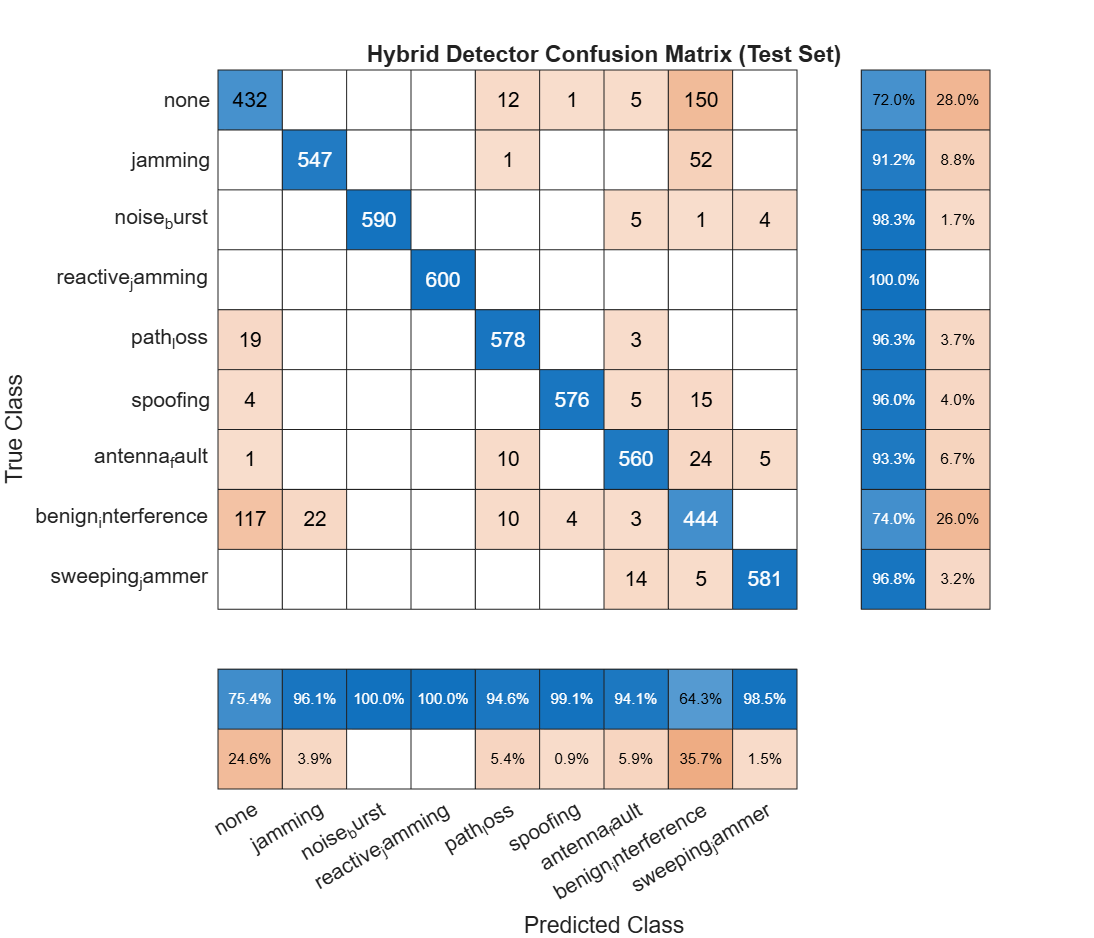
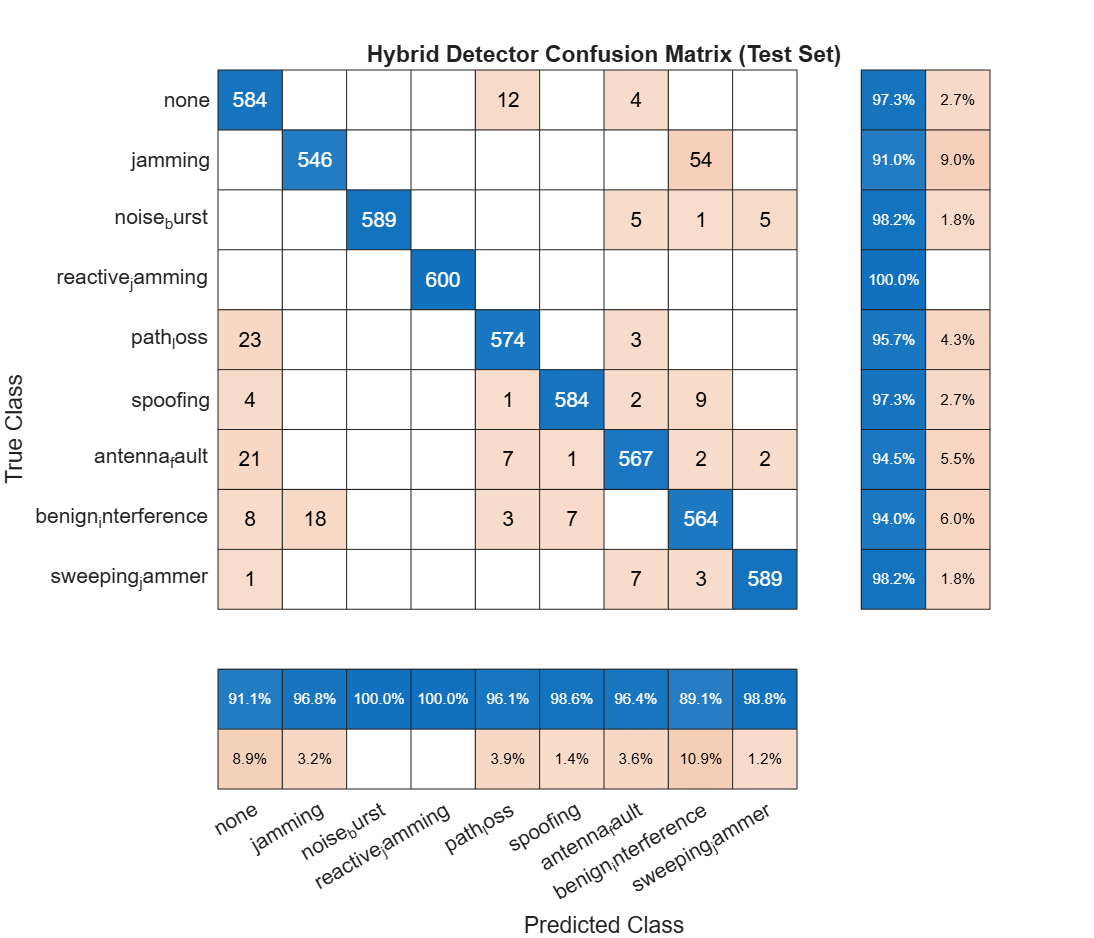
D43: interference-over-thermal feature; detector v2 96.2% accuracy, unknown-threat AUROC 0.90 (Mahalanobis)

diff --git a/demo_gui.m b/demo_gui.m
@@ -861,10 +861,10 @@ function runOneRun(fig, threat, ebno, sevLevel, tSeq)
     out = sim(env.modelName);
     updateTimer(fig, tSeq); checkAbort(fig);
 
-    [iq_frames, ber_f, rssi_f, plr_f, nf, sinr_f, ec_f] = extract_closed_loop_frames(out, p, env.delay_bits);
+    [iq_frames, ber_f, rssi_f, plr_f, nf, sinr_f, ec_f, iot_f] = extract_closed_loop_frames(out, p, env.delay_bits);
     i_last = find(~isnan(ber_f), 1, 'last'); if isempty(i_last), i_last = nf; end
     raw_feats = link_features(struct('sinr', sinr_f, 'ber', ber_f, 'rssi', rssi_f, 'plr', plr_f, ...
-        'env_corr', ec_f), i_last, env.temporal_window, p.frame_duration);
+        'env_corr', ec_f, 'iot', iot_f), i_last, env.temporal_window, p.frame_duration);
     burst_ratio = raw_feats(7);
     iq_before = iq_frames{i_last};
     ber_before_mean = mean(ber_f, 'omitnan');
@@ -1667,7 +1667,7 @@ function runEpisode(btn, ~)
             if onset, F = Pt{cfg}; else, F = Pn{cfg}; end
             j = randi(rs{i}, numel(F.ber));
             fr = struct('iq', double(F.iq{j}), 'ber', F.ber(j), 'rssi', F.rssi(j), 'plr', F.plr(j), ...
-                'sinr', F.sinr(j), 'env_corr', F.env_corr(j));
+                'sinr', F.sinr(j), 'env_corr', F.env_corr(j), 'iot', F.iot(j));
             [Ep{i}, info] = episode_cycle(Ep{i}, k, fr, ctx{i});
             T.ber(i, k) = fr.ber; T.det(i, k) = cls_idx(info.cls); T.ok(i, k) = T.det(i, k) == truthIdx(k);
             T.conf(i, k) = info.conf; T.prop(i, k) = info.prop; T.cfg(i, k) = info.cfg; T.sw(i, k) = info.switched;
@@ -1763,11 +1763,11 @@ function P = epBuildPool(fig, p, threat, ebno)
         evalc('build_threat_model');
         snr_dB = ebno + 10*log10(p2.bits_per_symbol) - 10*log10(p2.sps);
         set_param([env.modelName '/AWGN'], 'SNR', num2str(snr_dB + g_db), 'SignalPower', num2str(1/p2.sps));
-        F = struct('iq', {{}}, 'ber', [], 'rssi', [], 'plr', [], 'sinr', [], 'env_corr', []);
+        F = struct('iq', {{}}, 'ber', [], 'rssi', [], 'plr', [], 'sinr', [], 'env_corr', [], 'iot', []);
         for r = 1:2
             link_seed(env.modelName, randi(2^31 - 1000));
             out = sim(env.modelName);
-            [iq_f, ber_f, rssi_f, plr_f, ~, sinr_f, ec_f] = extract_closed_loop_frames(out, p2, env.delay_bits);
+            [iq_f, ber_f, rssi_f, plr_f, ~, sinr_f, ec_f, iot_f] = extract_closed_loop_frames(out, p2, env.delay_bits);
             v = find(~isnan(ber_f));
             F.iq   = [F.iq, reshape(cellfun(@single, iq_f(v), 'UniformOutput', false), 1, [])];
             F.ber  = [F.ber, ber_f(v)];
@@ -1775,6 +1775,7 @@ function P = epBuildPool(fig, p, threat, ebno)
             F.plr  = [F.plr, plr_f(v)];
             F.sinr = [F.sinr, sinr_f(v)];
             F.env_corr = [F.env_corr, ec_f(v)];
+            F.iot = [F.iot, iot_f(v)];
         end
         P{a} = F;
     end

diff --git a/run_dataset_sweep.m b/run_dataset_sweep.m
@@ -48,7 +48,7 @@ class_names = ['none', {threat_cfg.name}];
 stop_time   = num2str(F_SUB * p0.frame_duration);
 
 D = struct('iq', {{}}, 'label', [], 'level', [], 'snr', [], 'ber', [], 'rssi', [], 'plr', [], ...
-    'sinr', [], 'env_corr', [], 'speed', [], 'run', [], 'fold', []);
+    'sinr', [], 'env_corr', [], 'iot', [], 'speed', [], 'run', [], 'fold', []);
 run_id = 0;
 t0 = tic;
 fprintf('\n=== A5 dataset: %d threats x %d levels x %d Eb/N0 x %d sub-runs x %d frames (+ none) ===\n', ...
@@ -91,7 +91,7 @@ dataset = struct();
 dataset.iq = D.iq; dataset.label = D.label(:); dataset.level = D.level(:);
 dataset.class_names = class_names; dataset.snr = D.snr(:);
 dataset.ber = D.ber(:); dataset.rssi = D.rssi(:); dataset.plr = D.plr(:);
-dataset.sinr = D.sinr(:); dataset.env_corr = D.env_corr(:);
+dataset.sinr = D.sinr(:); dataset.env_corr = D.env_corr(:); dataset.iot = D.iot(:);
 dataset.speed_kmh = D.speed(:); dataset.run = D.run(:); dataset.fold = D.fold(:);
 dataset.meta = struct('N_SUB', N_SUB, 'F_SUB', F_SUB, 'EbNo_list', EbNo_list, 'delay_bits', delay_bits, ...
     'mode', 'seeded_subruns_D42', 'n_rx', p0.n_rx, 'speed_range_kmh', [p0.speed_kmh_min p0.speed_kmh_max], ...
@@ -122,13 +122,13 @@ link_seed(modelName, randi(2^31 - 1000), fd);
 snr_dB = ebno + 10*log10(p.bits_per_symbol) - 10*log10(p.sps);
 set_param([modelName '/AWGN'], 'SNR', num2str(snr_dB), 'SignalPower', num2str(1/p.sps));
 out = sim(modelName, 'StopTime', stop_time);
-[iqf, ber, rssi, plr, nf, sinr, ec] = extract_closed_loop_frames(out, p, delay_bits);
+[iqf, ber, rssi, plr, nf, sinr, ec, io] = extract_closed_loop_frames(out, p, delay_bits);
 for f = 1:nf
     if isnan(ber(f)), continue; end
     D.iq{end+1} = iqf{f};
     D.label(end+1) = label; D.level(end+1) = level; D.snr(end+1) = ebno;
     D.ber(end+1) = ber(f); D.rssi(end+1) = rssi(f); D.plr(end+1) = plr(f);
-    D.sinr(end+1) = sinr(f); D.env_corr(end+1) = ec(f);
+    D.sinr(end+1) = sinr(f); D.env_corr(end+1) = ec(f); D.iot(end+1) = io(f);
     D.speed(end+1) = v_kmh; D.run(end+1) = run_id; D.fold(end+1) = fold;
 end
 end

diff --git a/run_closed_loop_episodes.m b/run_closed_loop_episodes.m
@@ -70,11 +70,11 @@ for t = 1:nT
         for s = 1:nS
             snr_dB = EBNO_LIST(s) + 10*log10(p2.bits_per_symbol) - 10*log10(p2.sps);
             set_param([modelName '/AWGN'], 'SNR', num2str(snr_dB + g_db), 'SignalPower', num2str(1/p2.sps));
-            F = struct('iq', {{}}, 'ber', [], 'rssi', [], 'plr', [], 'sinr', [], 'env_corr', []);
+            F = struct('iq', {{}}, 'ber', [], 'rssi', [], 'plr', [], 'sinr', [], 'env_corr', [], 'iot', []);
             for r = 1:N_POOL_RUNS
                 link_seed(modelName, randi(2^31 - 1000));       % independent pool runs (D42)
                 out = sim(modelName);
-                [iq_f, ber_f, rssi_f, plr_f, ~, sinr_f, ec_f] = extract_closed_loop_frames(out, p2, delay_bits);
+                [iq_f, ber_f, rssi_f, plr_f, ~, sinr_f, ec_f, iot_f] = extract_closed_loop_frames(out, p2, delay_bits);
                 b = ber_f(:)'; rs = rssi_f(:)'; q = plr_f(:)'; sn = sinr_f(:)'; ec = ec_f(:)';
                 v = find(~isnan(b));
                 F.iq   = [F.iq, reshape(cellfun(@single, iq_f(v), 'UniformOutput', false), 1, [])];
@@ -83,6 +83,7 @@ for t = 1:nT
                 F.plr  = [F.plr, q(v)];
                 F.sinr = [F.sinr, sn(v)];
                 F.env_corr = [F.env_corr, ec(v)];
+                io = iot_f(:)'; F.iot = [F.iot, io(v)];
             end
             pools{t, a, s} = F;
         end
@@ -167,7 +168,7 @@ for k = 1:N
     F = pools{src_t, cfg, s};
     j = randi(numel(F.ber));
     fr = struct('iq', double(F.iq{j}), 'ber', F.ber(j), 'rssi', F.rssi(j), 'plr', F.plr(j), ...
-        'sinr', F.sinr(j), 'env_corr', F.env_corr(j));
+        'sinr', F.sinr(j), 'env_corr', F.env_corr(j), 'iot', F.iot(j));
     [Ep, info] = episode_cycle(Ep, k, fr, ctx);
     cfg = Ep.cfg;
     if k > N_PRE && isnan(R.T_detect) && strcmp(info.cls, threats{t}), R.T_detect = k - N_PRE; end

diff --git a/extract_closed_loop_frames.m b/extract_closed_loop_frames.m
@@ -1,4 +1,4 @@
-function [iq_frames, ber, rssi, plr, nf, sinr, env_corr] = extract_closed_loop_frames(out, p, delay_bits)
+function [iq_frames, ber, rssi, plr, nf, sinr, env_corr, iot] = extract_closed_loop_frames(out, p, delay_bits)
 %EXTRACT_CLOSED_LOOP_FRAMES Single source of truth for pulling all frames
 % (not just the first) out of a single sim() call's output, with per-frame
 % BER/RSSI/PLR -- the building block for real sliding-window temporal
@@ -32,6 +32,8 @@ function [iq_frames, ber, rssi, plr, nf, sinr, env_corr] = extract_closed_loop_f
 %                  envelope (residual after a 32-sample block LS fit): ~0 for
 %                  interference independent of our transmission, > 0 when the
 %                  interference is triggered by it (reactive jamming, D42)
+%   iot(f)       - interference over thermal [dB] (iot_db.m); the thermal floor is
+%                  the AWGN setting of the run, read from the model (D43)
 %
 % With p.fec (fec_interleave, D39) BER and PLR are those of the decoded
 % information bits (local function fec_frames).
@@ -50,6 +52,7 @@ if isvector(iq),  iq=iq(:);   end
 nf  = size(iq,2);
 bpf = p.frame_length;
 [sinr, env_corr] = residual_metrics(txi, iq, nf);
+iot = iot_of(out, p, iq, sinr, nf);
 tx_all = txb(:); rx_all = rxb(:);
 Lmax = min(numel(tx_all),numel(rx_all)) - delay_bits;
 tx_al = tx_all(1:Lmax);
@@ -145,5 +148,18 @@ for f = 1:min(nf, size(tx, 2))
     a = abs(E(:)).^2; b = abs(X(:)).^2;
     c = corrcoef(a, b);
     ec(f) = c(1, 2);
+end
+end
+
+function iot = iot_of(out, p, iq, sinr, nf)
+iot = nan(1, nf);
+try
+    mdl = out.SimulationMetadata.ModelInfo.ModelName;
+    snr_s = str2double(get_param([mdl '/AWGN'], 'SNR'));
+catch
+    return;
+end
+for f = 1:nf
+    iot(f) = iot_db(10*log10(mean(abs(iq(:, f)).^2) + eps), sinr(f), snr_s, p.sps);
 end
 end

diff --git a/extract_spectrograms.m b/extract_spectrograms.m
@@ -26,12 +26,14 @@ for i = 1:N
 end
 
 fprintf('Computing link features (window %d, per sub-run)...\n', tw);
-feats = zeros(N, 8);
+feats = zeros(N, 9);
+snr_s = ds.snr(:) + 10*log10(p.bits_per_symbol) - 10*log10(p.sps);     % AWGN setting of each frame
+iot = iot_db(ds.rssi(:), ds.sinr(:), snr_s, p.sps);
 runs = unique(ds.run, 'stable');
 for r = 1:numel(runs)
     idx = find(ds.run == runs(r));
     M = struct('sinr', ds.sinr(idx), 'ber', ds.ber(idx), 'rssi', ds.rssi(idx), ...
-        'plr', ds.plr(idx), 'env_corr', ds.env_corr(idx));
+        'plr', ds.plr(idx), 'env_corr', ds.env_corr(idx), 'iot', iot(idx));
     for k = 1:numel(idx)
         [feats(idx(k), :), feat_names] = link_features(M, k, tw, p.frame_duration);
     end
@@ -51,11 +53,15 @@ spec.meta = ds.meta;
 spec.meta.temporal_window = tw;
 save('data/spectrograms.mat', 'spec', '-v7.3');
 
-fprintf('\nSaved data/spectrograms.mat: X [128 128 1 %d], %d classes, feats [%d x 8] (%s)\n', ...
+fprintf('\nSaved data/spectrograms.mat: X [128 128 1 %d], %d classes, feats [%d x 9] (%s)\n', ...
     N, numel(ds.class_names), N, strjoin(feat_names, ', '));
 fprintf('Envelope correlation per class (mean): ');
 for c = 1:numel(ds.class_names)
     fprintf('%s %.3f  ', ds.class_names{c}, mean(feats(ds.label == c, 8)));
+end
+fprintf('\nInterference over thermal per class (mean dB): ');
+for c = 1:numel(ds.class_names)
+    fprintf('%s %.2f  ', ds.class_names{c}, mean(feats(ds.label == c, 9)));
 end
 fprintf('\n');
 clear X spec ds L   % large arrays; main.m runs the stages in one workspace

diff --git a/link_features.m b/link_features.m
@@ -2,13 +2,13 @@ function [raw, names] = link_features(M, k, tw, frame_dur)
 %LINK_FEATURES  Scalar detector features of frame k, one definition for training,
 %   evaluation, the closed loop and the GUI (D42).
 %   M          per-frame history of one run or episode, vector fields:
-%              sinr, ber, rssi, plr, env_corr (as returned by extract_closed_loop_frames)
+%              sinr, ber, rssi, plr, env_corr, iot (as returned by extract_closed_loop_frames)
 %   k          current frame index in M
 %   tw         temporal window [frames], causal, clipped to the start of M
 %   frame_dur  frame duration [s]
-%   raw        1 x 8: [sinr, ber, rssi, plr, var_rssi, dber_dt, burst_ratio, env_corr]
+%   raw        1 x 9: [sinr, ber, rssi, plr, var_rssi, dber_dt, burst_ratio, env_corr, iot]
 %              missing values (e.g. BER of an incomplete frame) are set to 0
-names = {'sinr', 'ber', 'rssi', 'plr', 'var_rssi', 'dber_dt', 'burst_ratio', 'env_corr'};
+names = {'sinr', 'ber', 'rssi', 'plr', 'var_rssi', 'dber_dt', 'burst_ratio', 'env_corr', 'iot'};
 w0 = max(1, k - tw + 1);
 var_rssi = var(M.rssi(w0:k), 0);
 burst    = mean(M.plr(w0:k), 'omitnan');
@@ -17,6 +17,6 @@ if k > 1 && ~isnan(M.ber(k)) && ~isnan(M.ber(k-1))
 else
     dber = 0;
 end
-raw = [M.sinr(k), M.ber(k), M.rssi(k), M.plr(k), var_rssi, dber, burst, M.env_corr(k)];
+raw = [M.sinr(k), M.ber(k), M.rssi(k), M.plr(k), var_rssi, dber, burst, M.env_corr(k), M.iot(k)];
 raw(~isfinite(raw)) = 0;
 end

diff --git a/main.m b/main.m
@@ -118,11 +118,11 @@ RUN.validate_A                  = false;   % A1-A3: build+validate AWGN & Rician
 RUN.check_A4                    = false;   % A4  : build threat model + sanity BER (fast)
 RUN.validate_phy                = false;    % A4v : link vs theory, MRC/MMSE, seeds; stops main on FAIL (D41)
 RUN.build_dataset               = false;    % A5  : seeded sub-run dataset (~30min, D42)
-RUN.extract_spectrograms        = false;    % A6  : spectrograms + 8 link features (~5min, D42)
+RUN.extract_spectrograms        = true;    % A6  : spectrograms + 9 link features (~5min, D42-D43)
 
 
 % ---- Phase B: detection (CNN baseline) ----
-RUN.prepare_data                = false;    % B1  : split by sub-run 60/20/20 (~1min, D42)
+RUN.prepare_data                = true;    % B1  : split by sub-run 60/20/20 (~1min, D42)
 RUN.train_detector              = true;    % B2  : train CNN+scalar hybrid (~10min)
 RUN.eval_detector               = true;    % B3  : test eval + confusion/accuracy-vs-SNR + bootstrap CIs (~2min, D35)
 RUN.eval_unseen_snr             = false;   % B4  : detector at Eb/N0 never seen in training, 1,3,5,7,9 dB (~25min, D34)

diff --git a/episode_cycle.m b/episode_cycle.m
@@ -5,7 +5,7 @@ function [E, info] = episode_cycle(E, k, fr, ctx)
 %
 %   E    episode state; pass [] on the first cycle
 %   k    cycle index (1-based)
-%   fr   received frame: fields iq, ber, rssi, plr, sinr, env_corr
+%   fr   received frame: fields iq, ber, rssi, plr, sinr, env_corr, iot
 %   ctx  fields: ebno, policy ('dqn' | 'rule'), dwell, hold, net, classes,
 %        feat_mean, feat_std, fs, agent, actions, na, tw (temporal window),
 %        frame_dur
@@ -21,9 +21,9 @@ function [E, info] = episode_cycle(E, k, fr, ctx)
 
 if isempty(E)
     E = struct('cfg', ctx.na, 'last_switch', -inf, 'cand', 0, 'cand_n', 0, ...
-        'ber', [], 'rssi', [], 'plr', [], 'sinr', [], 'env_corr', []);
+        'ber', [], 'rssi', [], 'plr', [], 'sinr', [], 'env_corr', [], 'iot', []);
 end
-E.ber(k) = fr.ber; E.rssi(k) = fr.rssi; E.plr(k) = fr.plr; E.sinr(k) = fr.sinr; E.env_corr(k) = fr.env_corr;
+E.ber(k) = fr.ber; E.rssi(k) = fr.rssi; E.plr(k) = fr.plr; E.sinr(k) = fr.sinr; E.env_corr(k) = fr.env_corr; E.iot(k) = fr.iot;
 
 %% Detection
 raw = link_features(E, k, ctx.tw, ctx.frame_dur);

diff --git a/train_detector.m b/train_detector.m
@@ -1,4 +1,4 @@
-%% B2 - TRAIN HYBRID DETECTOR: CNN (spectrogram) + FC (8 link features) -> softmax (D42)
+%% B2 - TRAIN HYBRID DETECTOR: CNN (spectrogram) + FC (9 link features) -> softmax (D42)
 % Training in train_hybrid_net.m (shared with eval_ood_detection.m). After
 % training, the feature-space unknown-threat models (Mahalanobis on the embedding,
 % isolation forest on the link features) are fitted on the training split.
@@ -33,7 +33,7 @@ xlabel('Epoch'); ylabel('Cross-entropy'); title('Training loss');
 subplot(1, 2, 2); plot(100*info.valAcc, 'r-', 'LineWidth', 1.5); hold on; grid on;
 xline(info.bestEpoch, '--k', sprintf('best (ep %d)', info.bestEpoch));
 xlabel('Epoch'); ylabel('Accuracy (%)'); title(sprintf('Validation accuracy (best %.1f%%)', 100*info.bestValAcc));
-sgtitle('B2: Hybrid detector (8 link features, SpecAugment, cosine LR)');
+sgtitle('B2: Hybrid detector (9 link features, SpecAugment, cosine LR)');
 if ~exist('results', 'dir'), mkdir('results'); end
 saveas(fig, 'results/training_curves.png'); close(fig);
 fprintf('=== B2 Complete ===\n');

diff --git a/run_closed_loop_diagnostic.m b/run_closed_loop_diagnostic.m
@@ -121,7 +121,7 @@ for mc = 1:N_MC
 
             %% --- Attacked link ---
             out = sim_seeded(p, modelName, snr_dB, seed);
-            [iq_frames, ber_f, rssi_f, plr_f, nf, sinr_f, ec_f] = extract_closed_loop_frames(out, p, delay_bits);
+            [iq_frames, ber_f, rssi_f, plr_f, nf, sinr_f, ec_f, iot_f] = extract_closed_loop_frames(out, p, delay_bits);
             [ber_before, plr_before] = link_means(ber_f);
             if isnan(n_seeded), n_seeded = seed_blocks(modelName, seed); end
 
@@ -133,7 +133,7 @@ for mc = 1:N_MC
             t1 = tic;
             spec_img = spec_image(iq_rx, fs);
             raw_feats = link_features(struct('sinr', sinr_f, 'ber', ber_f, 'rssi', rssi_f, 'plr', plr_f, ...
-                'env_corr', ec_f), i_last, temporal_window, p.frame_duration);
+                'env_corr', ec_f, 'iot', iot_f), i_last, temporal_window, p.frame_duration);
             norm_feats = (raw_feats - feat_mean) ./ feat_std;
             X_spec = dlarray(single(spec_img), 'SSCB');
             X_feat = dlarray(single(norm_feats)', 'CB');

diff --git a/diagnose_far_measurement.m b/diagnose_far_measurement.m
@@ -89,7 +89,7 @@ for si = 1:numel(SNR_TEST_POINTS)
                 'SignalPower', num2str(1/p.sps));
 
             out = sim(modelName);
-            [iq_frames, ber_f, rssi_f, plr_f, nf, sinr_f, ec_f] = extract_closed_loop_frames(out, p, delay_bits);
+            [iq_frames, ber_f, rssi_f, plr_f, nf, sinr_f, ec_f, iot_f] = extract_closed_loop_frames(out, p, delay_bits);
 
             i_last = find(~isnan(ber_f), 1, 'last');
             if isempty(i_last), i_last = nf; end
@@ -100,7 +100,7 @@ for si = 1:numel(SNR_TEST_POINTS)
 
             spec_img = spec_image(iq_rx, fs);
             raw_feats = link_features(struct('sinr', sinr_f, 'ber', ber_f, 'rssi', rssi_f, 'plr', plr_f, ...
-                'env_corr', ec_f), i_last, temporal_window, p.frame_duration);
+                'env_corr', ec_f, 'iot', iot_f), i_last, temporal_window, p.frame_duration);
             norm_feats = (raw_feats - feat_mean) ./ feat_std;
             X_spec = dlarray(single(spec_img), 'SSCB');
             X_feat = dlarray(single(norm_feats)', 'CB');

diff --git a/eval_speed_robustness.m b/eval_speed_robustness.m
@@ -237,12 +237,12 @@ fprintf('\nSaved results/speed_robustness.{mat,txt,png}\n');
 
 %% ===== Local function: detection on the last valid frame of one sim run =====
 function [cls, conf, ber_mean, raw_feats] = local_detect(out, p, ebno, env)
-    [iq_frames, ber_f, rssi_f, plr_f, nf, sinr_f, ec_f] = extract_closed_loop_frames(out, p, env.delay_bits);
+    [iq_frames, ber_f, rssi_f, plr_f, nf, sinr_f, ec_f, iot_f] = extract_closed_loop_frames(out, p, env.delay_bits);
     i_last = find(~isnan(ber_f), 1, 'last');
     if isempty(i_last), i_last = nf; end
     spec_img = spec_image(iq_frames{i_last}, env.fs);
     raw_feats = link_features(struct('sinr', sinr_f, 'ber', ber_f, 'rssi', rssi_f, 'plr', plr_f, ...
-        'env_corr', ec_f), i_last, env.temporal_window, p.frame_duration);
+        'env_corr', ec_f, 'iot', iot_f), i_last, env.temporal_window, p.frame_duration);
     norm_feats = (raw_feats - env.feat_mean) ./ env.feat_std;
     X_spec = dlarray(single(spec_img), 'SSCB');
     X_feat = dlarray(single(norm_feats)', 'CB');
